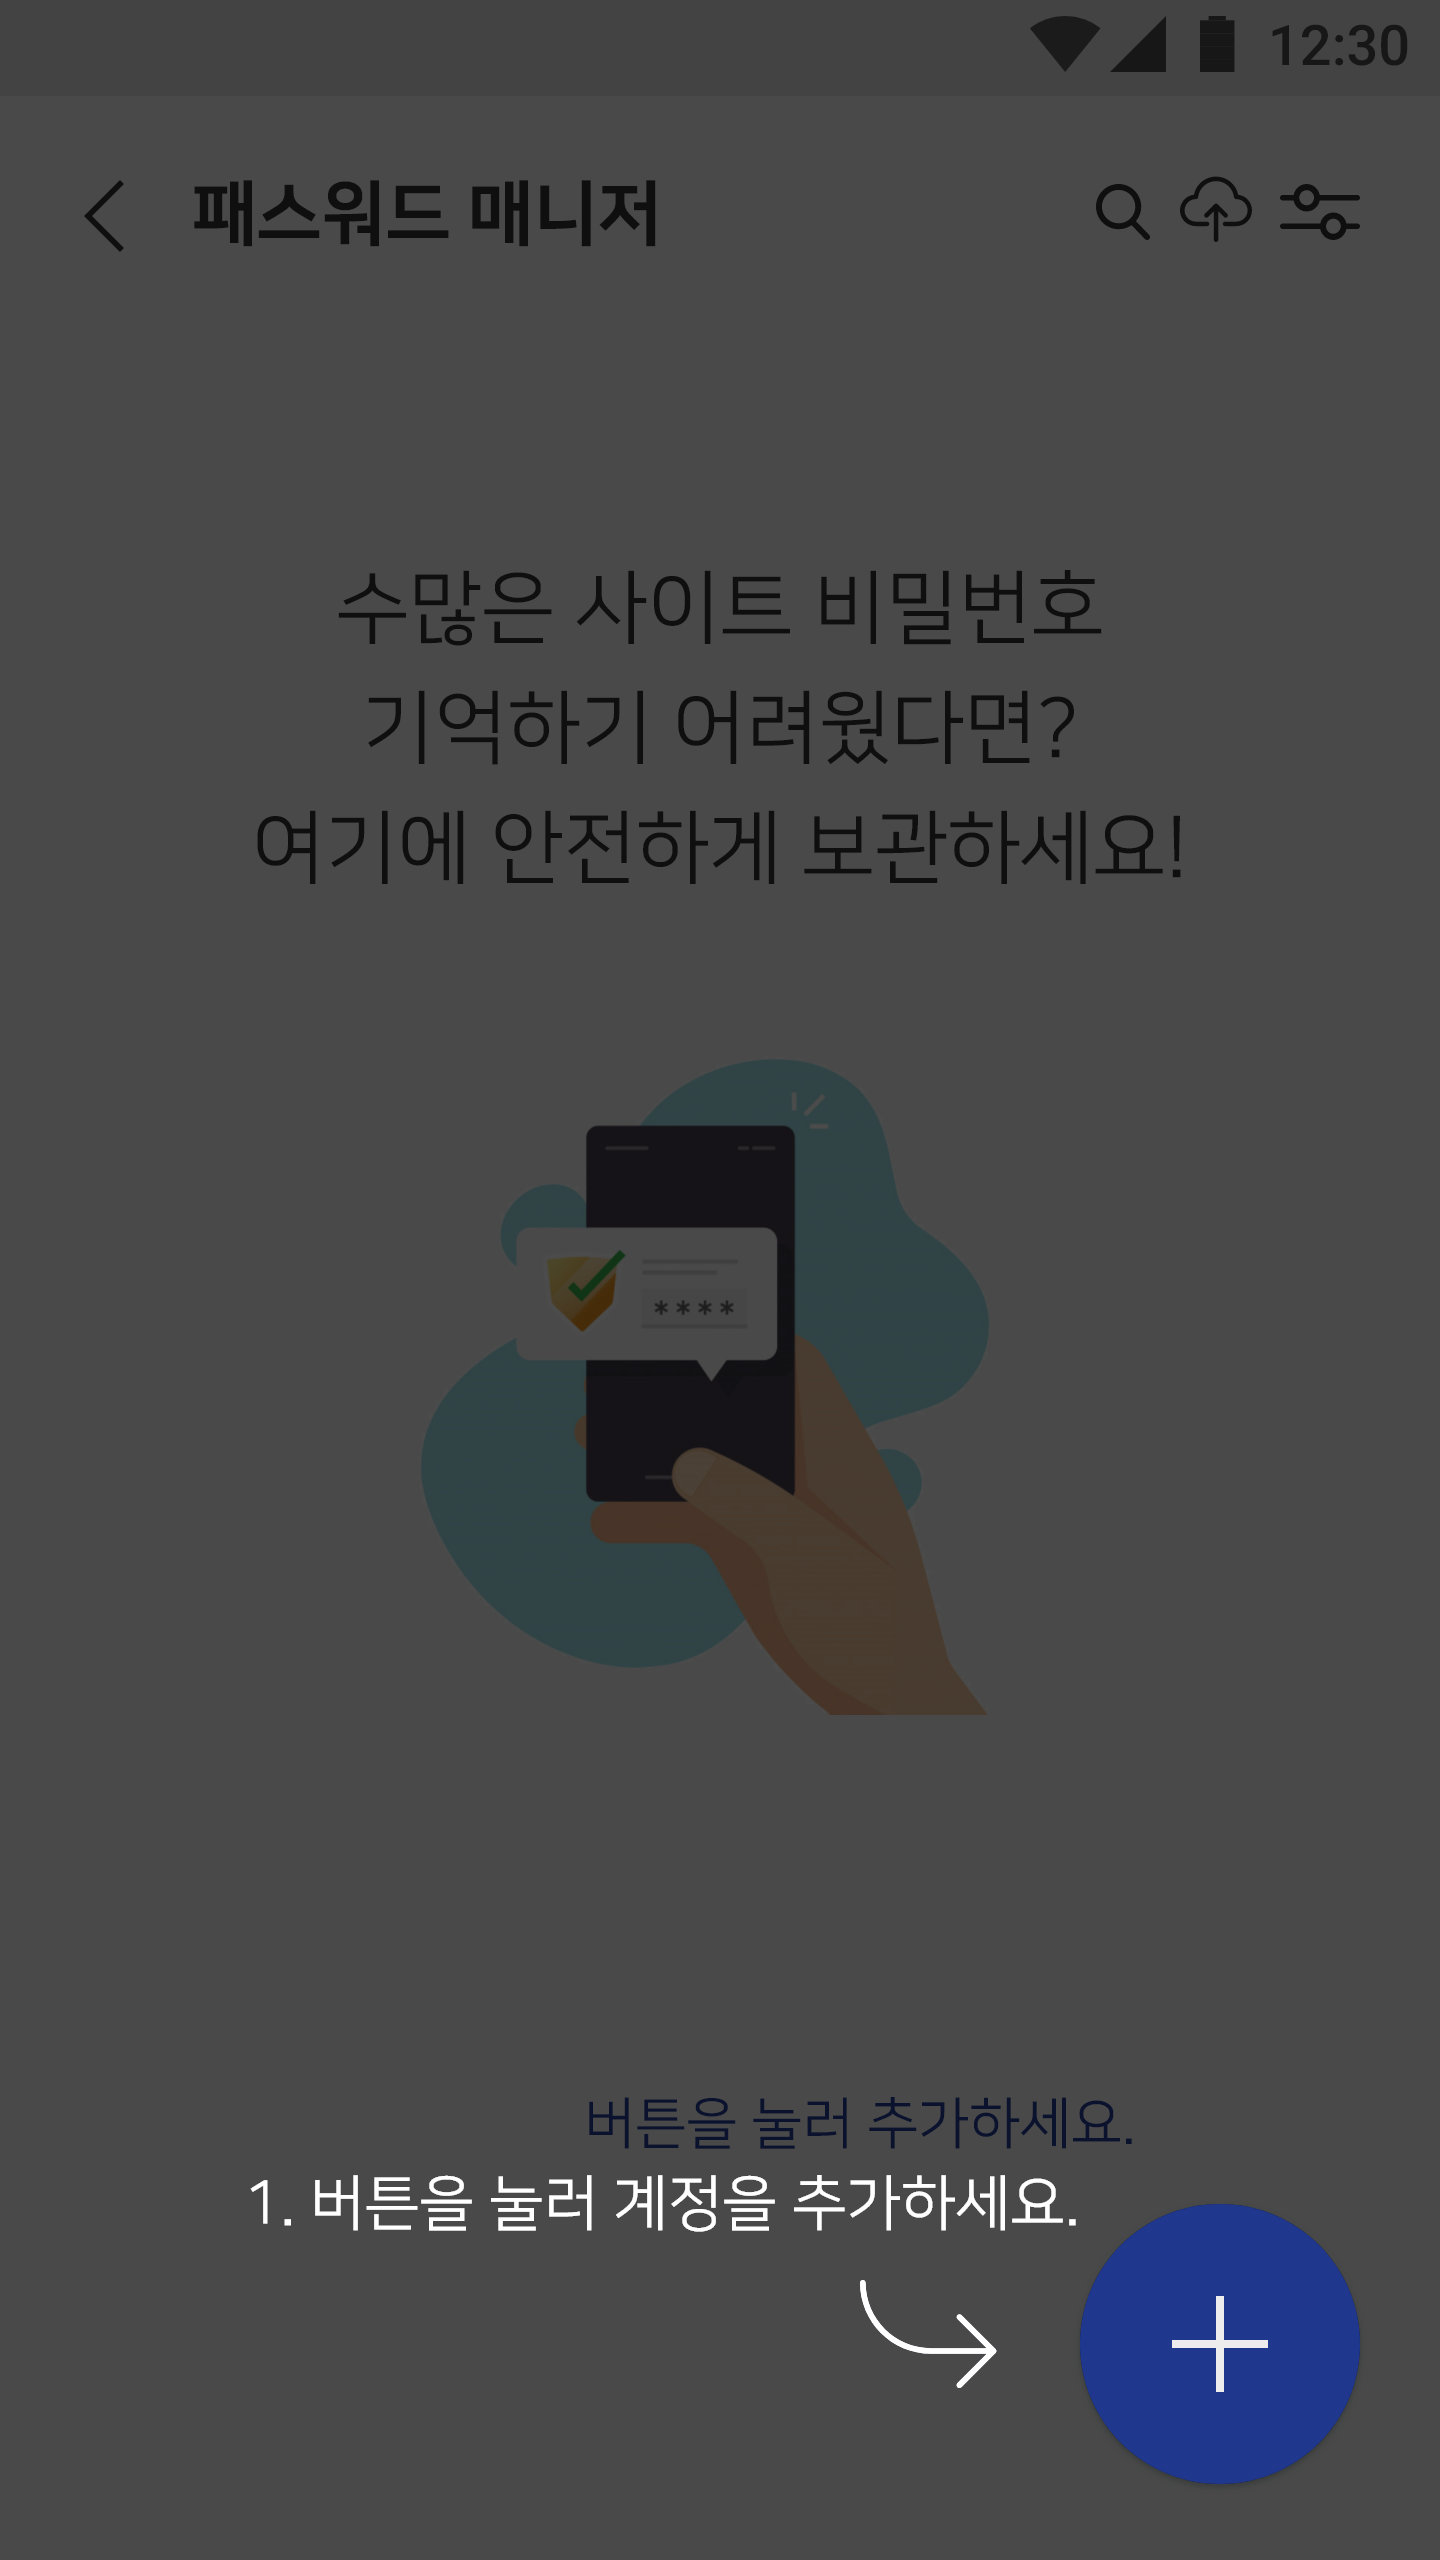
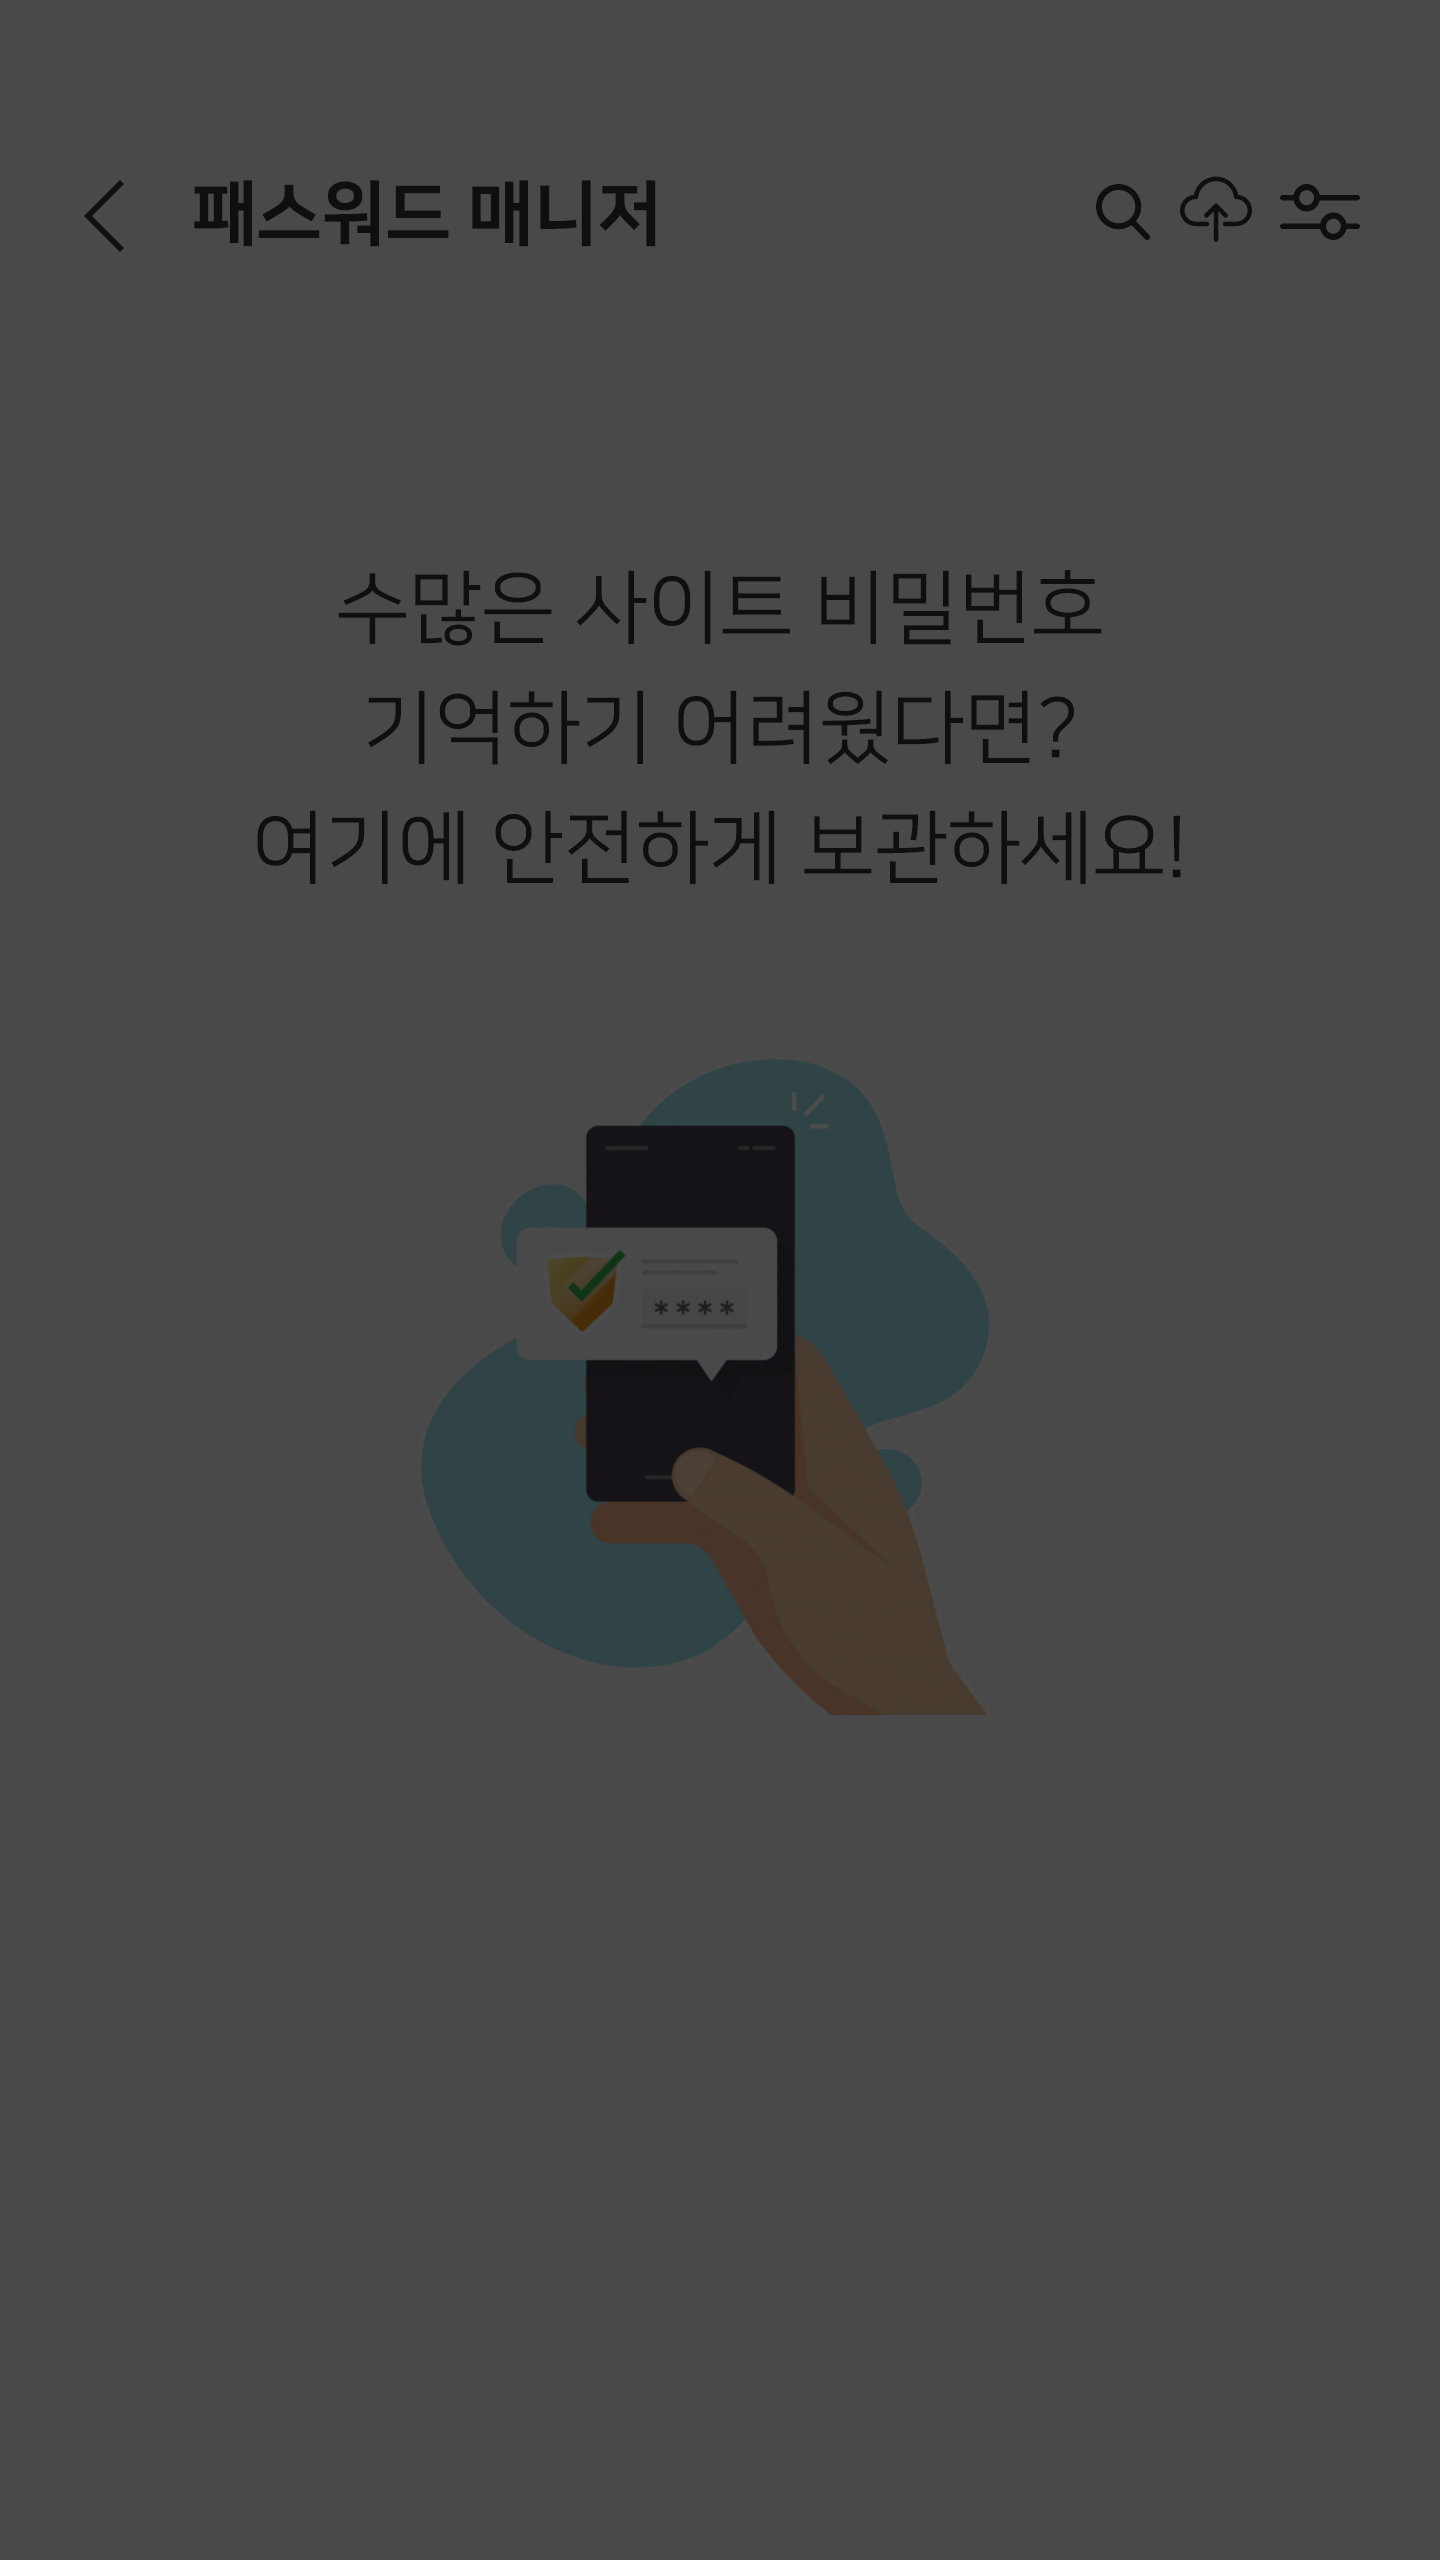
tutorial 0923

diff --git a/tutorial_ios.html b/tutorial_ios.html
@@ -2,7 +2,7 @@
 <html lang="en">
 <head>
     <meta charset="utf-8">
-    <title>Swiper demo</title>
+    <title>패스워드 매니저</title>
     <meta name="viewport" content="width=device-width, initial-scale=1, minimum-scale=1, maximum-scale=1">
 
     <!-- Link Swiper's CSS -->
@@ -41,29 +41,57 @@ body {  background: #4c4c4c;font-family: Helvetica Neue, Helvetica, Arial, sans-
     .swiper-pagination-bullet {width: 20px;height: 20px;text-align: center;line-height: 20px;font-size: 12px;color:#000;  opacity: 1;background: rgba(0,0,0,0.2);}
     .swiper-pagination-bullet-active {color:#fff;background: #007aff;}
 
-    .btn_close{position: absolute; right:20px; top:20px; z-index: 99999;}
+    .btn_close{position: absolute; right:20px; top:25px; z-index: 99999;}
     .btn_close img{width:20px;}
     .btn_close02{position: absolute;  margin-left:auto; margin-right:auto; left:0; right:0;  bottom:30px; z-index: 99999;}
     .btn_close02 img{width:200px;}
 
+    .swiper-wrapper{position:relative;}
+    .tuto_bottom{position: absolute; bottom:30px;}
+    .tuto_bottom img{width:300px;}
+
+    .tuto_bottom02{position: absolute; bottom:0;}
+    .tuto_bottom02 img{width:100%;}
+
 </style>
+<script>
+/* 퀵메뉴 창닫기 기능 */
+function WinClose()
+ {
+   window.open('','_self').close();
+}
+</script>
 </head>
 <body>
     <!-- Swiper -->
     <div class="swiper-container">
         <div class="swiper-wrapper">
-            <div class="swiper-slide" style="background: url(images/tutorial01.png) no-repeat center top; background-size: contain;"></div>
-            <div class="swiper-slide" style="background: url(images/tutorial02_ios.png) no-repeat center top; background-size: contain;"></div>
-            <div class="swiper-slide" style="background: url(images/tutorial03.png) no-repeat center top; background-size: contain;"></div>
-            <div class="swiper-slide" style="background: url(images/tutorial04.png) no-repeat center top; background-size: contain;"></div>
-            <div class="swiper-slide" style="background: url(images/tutorial05.png) no-repeat center top; background-size: contain;"></div>
-            <div class="swiper-slide" style="background: url(images/tutorial06.png) no-repeat center top; background-size: contain;"></div>
-            <div class="swiper-slide" style="background: url(images/tutorial07.png) no-repeat center top; background-size: contain;"></div>
-            <div class="swiper-slide" style="background: url(images/tutorial08.png) no-repeat center top; background-size: contain;">
-
-              <div class="btn_close"><a href="javascript:WinClose();"><img src="images/btn_close.png" alt="닫기"></a></div>
-              <div class="btn_close02"><a href="javascript:WinClose();"><img src="images/btn_close02.png" alt="닫기"></a></div>
-            </div>
+          <div class="swiper-slide" style="background: url(images/tutorial01.png) no-repeat center top; background-size: contain;">
+            <div class="tuto_bottom"><img src="images/tuto_btn05.png"></div>
+          </div>
+          <div class="swiper-slide" style="background: url(images/tutorial02_ios.png) no-repeat center top; background-size: contain;">
+            <div class="tuto_bottom"><img src="images/tuto_btn01.png"></div>
+          </div>
+          <div class="swiper-slide" style="background: url(images/tutorial03.png) no-repeat center top; background-size: contain;">
+            <div class="tuto_bottom"><img src="images/tuto_btn02.png"></div>
+          </div>
+          <div class="swiper-slide" style="background: url(images/tutorial04.png) no-repeat center top; background-size: contain;">
+            <div class="tuto_bottom02"><img src="images/tuto_btn03.png"></div>
+          </div>
+          <div class="swiper-slide" style="background: url(images/tutorial05.png) no-repeat center top; background-size: contain;">
+            <div class="tuto_bottom"><img src="images/tuto_btn06.png"></div>
+          </div>
+          <div class="swiper-slide" style="background: url(images/tutorial06.png) no-repeat center top; background-size: contain;">
+            <div class="tuto_bottom02"><img src="images/tuto_btn04.png"></div>
+          </div>
+          <div class="swiper-slide" style="background: url(images/tutorial07.png) no-repeat center top; background-size: contain;">
+            <div class="tuto_bottom"><img src="images/tuto_btn06.png"></div>
+          </div>
+          <div class="swiper-slide" style="background: url(images/tutorial08.png) no-repeat center top; background-size: contain;">
+            <div class="tuto_bottom"><img src="images/tuto_btn06.png"></div>
+            <div class="btn_close"><a href="javascript:WinClose();"><img src="images/btn_close.png" alt="닫기"></a></div>
+            <div class="btn_close02"><a href="javascript:WinClose();"><img src="images/btn_close02.png" alt="닫기"></a></div>
+          </div>
         </div>
         <!-- Add Pagination -->
         <div class="swiper-pagination"></div>

diff --git a/tutorial_android.html b/tutorial_android.html
@@ -2,7 +2,7 @@
 <html lang="en">
 <head>
     <meta charset="utf-8">
-    <title>Swiper demo</title>
+    <title>패스워드 매니저</title>
     <meta name="viewport" content="width=device-width, initial-scale=1, minimum-scale=1, maximum-scale=1">
 
     <!-- Link Swiper's CSS -->
@@ -41,26 +41,53 @@ body {  background: #4c4c4c;font-family: Helvetica Neue, Helvetica, Arial, sans-
 .swiper-pagination-bullet {width: 20px;height: 20px;text-align: center;line-height: 20px;font-size: 12px;color:#000;  opacity: 1;background: rgba(0,0,0,0.2);}
 .swiper-pagination-bullet-active {color:#fff;background: #007aff;}
 
-.btn_close{position: absolute; right:20px; top:20px; z-index: 99999;}
+.btn_close{position: absolute; right:20px; top:25px; z-index: 99999;}
 .btn_close img{width:20px;}
 .btn_close02{position: absolute;  margin-left:auto; margin-right:auto; left:0; right:0;  bottom:30px; z-index: 99999;}
 .btn_close02 img{width:200px;}
 
+.swiper-wrapper{position:relative;}
+.tuto_bottom{position: absolute; bottom:30px;}
+.tuto_bottom img{width:300px;}
+
+.tuto_bottom02{position: absolute; bottom:0;}
+.tuto_bottom02 img{width:100%;}
 </style>
+<script>
+/* 퀵메뉴 창닫기 기능 */
+function WinClose()
+ {
+   window.open('','_self').close();
+}
+</script>
 </head>
 <body>
     <!-- Swiper -->
     <div class="swiper-container">
         <div class="swiper-wrapper">
-            <div class="swiper-slide" style="background: url(images/tutorial01.png) no-repeat center top; background-size: contain;"></div>
-            <div class="swiper-slide" style="background: url(images/tutorial02.png) no-repeat center top; background-size: contain;"></div>
-            <div class="swiper-slide" style="background: url(images/tutorial03.png) no-repeat center top; background-size: contain;"></div>
-            <div class="swiper-slide" style="background: url(images/tutorial04.png) no-repeat center top; background-size: contain;"></div>
-            <div class="swiper-slide" style="background: url(images/tutorial05.png) no-repeat center top; background-size: contain;"></div>
-            <div class="swiper-slide" style="background: url(images/tutorial06.png) no-repeat center top; background-size: contain;"></div>
-            <div class="swiper-slide" style="background: url(images/tutorial07.png) no-repeat center top; background-size: contain;"></div>
+            <div class="swiper-slide" style="background: url(images/tutorial01.png) no-repeat center top; background-size: contain;">
+              <div class="tuto_bottom"><img src="images/tuto_btn05.png"></div>
+            </div>
+            <div class="swiper-slide" style="background: url(images/tutorial02.png) no-repeat center top; background-size: contain;">
+              <div class="tuto_bottom"><img src="images/tuto_btn01.png"></div>
+            </div>
+            <div class="swiper-slide" style="background: url(images/tutorial03.png) no-repeat center top; background-size: contain;">
+              <div class="tuto_bottom"><img src="images/tuto_btn02.png"></div>
+            </div>
+            <div class="swiper-slide" style="background: url(images/tutorial04.png) no-repeat center top; background-size: contain;">
+              <div class="tuto_bottom02"><img src="images/tuto_btn03.png"></div>
+            </div>
+            <div class="swiper-slide" style="background: url(images/tutorial05.png) no-repeat center top; background-size: contain;">
+              <div class="tuto_bottom"><img src="images/tuto_btn06.png"></div>
+            </div>
+            <div class="swiper-slide" style="background: url(images/tutorial06.png) no-repeat center top; background-size: contain;">
+              <div class="tuto_bottom02"><img src="images/tuto_btn04.png"></div>
+            </div>
+            <div class="swiper-slide" style="background: url(images/tutorial07.png) no-repeat center top; background-size: contain;">
+              <div class="tuto_bottom"><img src="images/tuto_btn06.png"></div>
+            </div>
             <div class="swiper-slide" style="background: url(images/tutorial08.png) no-repeat center top; background-size: contain;">
-
+              <div class="tuto_bottom"><img src="images/tuto_btn06.png"></div>
               <div class="btn_close"><a href="javascript:WinClose();"><img src="images/btn_close.png" alt="닫기"></a></div>
               <div class="btn_close02"><a href="javascript:WinClose();"><img src="images/btn_close02.png" alt="닫기"></a></div>
             </div>

diff --git a/dist/css/swiper.css b/dist/css/swiper.css
@@ -193,14 +193,16 @@
 .swiper-pagination-fraction,
 .swiper-pagination-custom,
 .swiper-container-horizontal > .swiper-pagination-bullets {
-  top: 20px;
+  position: absolute;
+  top: 10px;
   left: 0;
   width: 100%;
+  z-index: 12;
 }
 /* Bullets */
 .swiper-pagination-bullet {
-  width:14px!important;
-  height: 14px!important;
+  width:12px!important;
+  height: 12px!important;
   display: inline-block;
   border-radius: 100%;
   background: #000;
